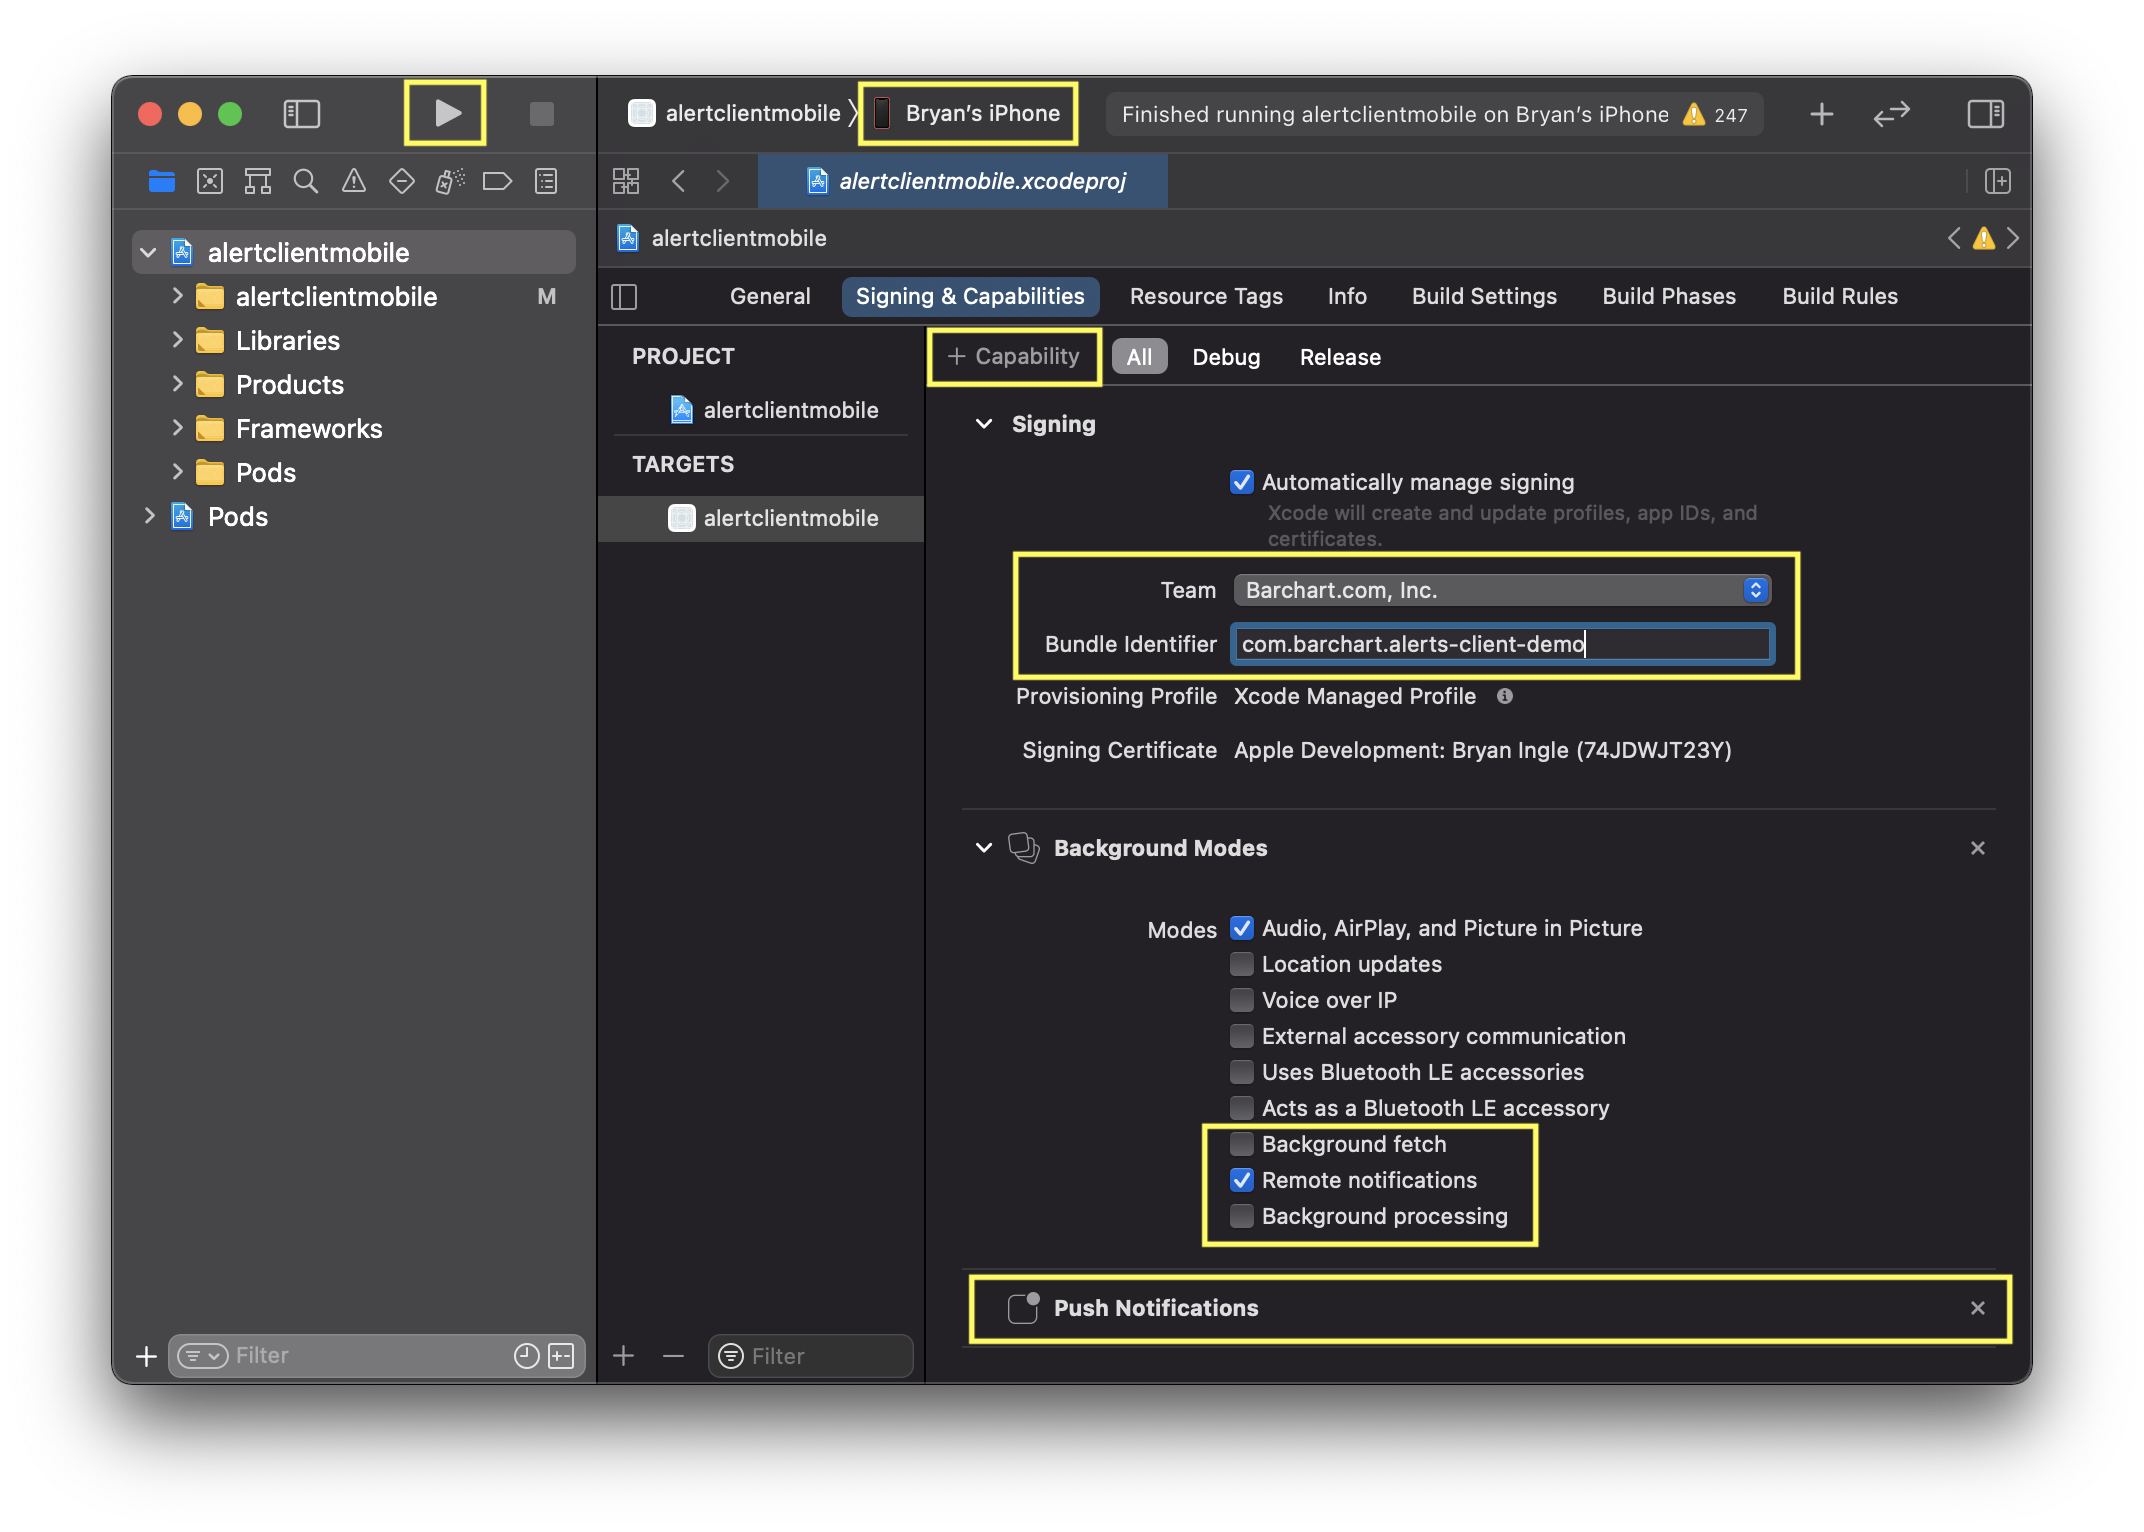
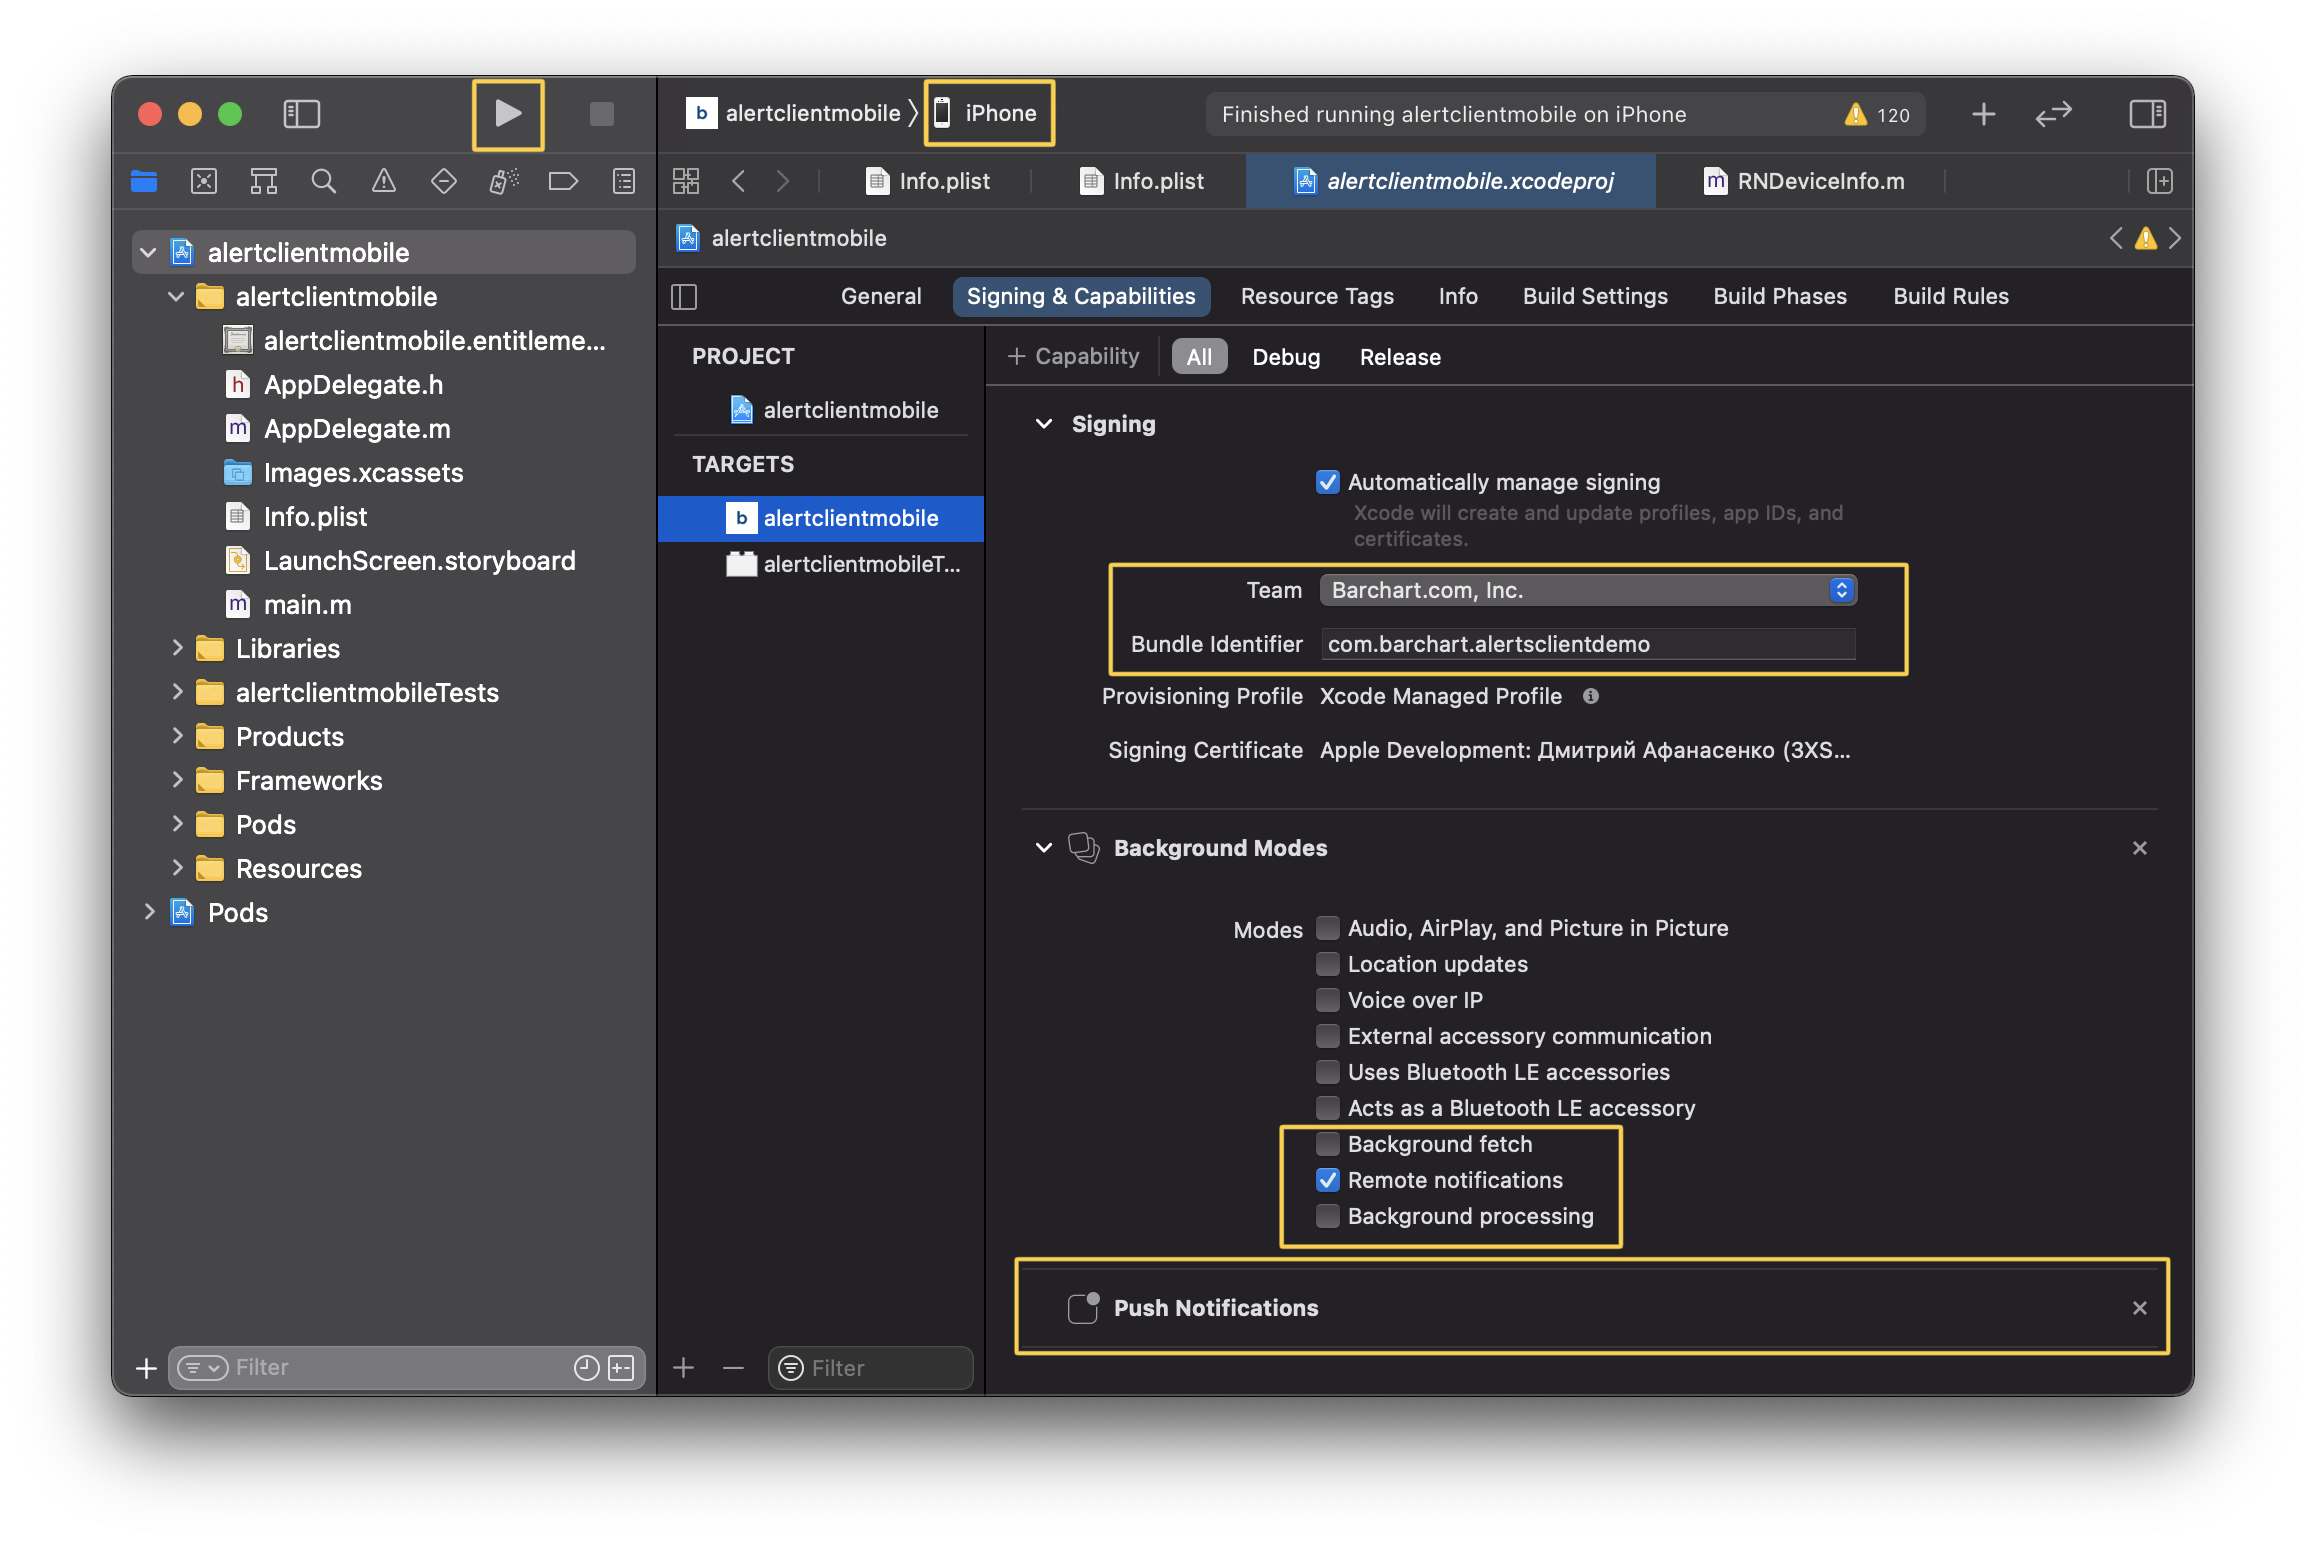
Updated readme.md for the mobile example

Changed region(s): [[0.0312, 0.0307, 0.9688, 0.9204], [0.4688, 0.3068, 0.8438, 0.4909], [0.4062, 0.8897, 0.4375, 0.9204]]

diff --git a/example/mobile/README.md b/example/mobile/README.md
@@ -37,7 +37,7 @@ Next, configure the project:
 5. Open `example/mobile/ios/alertclientmobile.xcworkspace` file with Xcode.
 6. Click on `alertclientmobile` and go to the `Signing & Capabilities` section, then:
    * Set your Team (e.g. `Barchart.com, Inc.`).
-   * Set the Bundle Identifier (e.g. `com.barchart.alerts-client-demo`).
+   * Set the Bundle Identifier (e.g. `com.barchart.alertsclientdemo`).
    * Ensure the `Remote Notifications` option is checked.
    * Ensure the `Push Notifications` capability has been enabled.
 7. Connect your iOS device to your computer.
